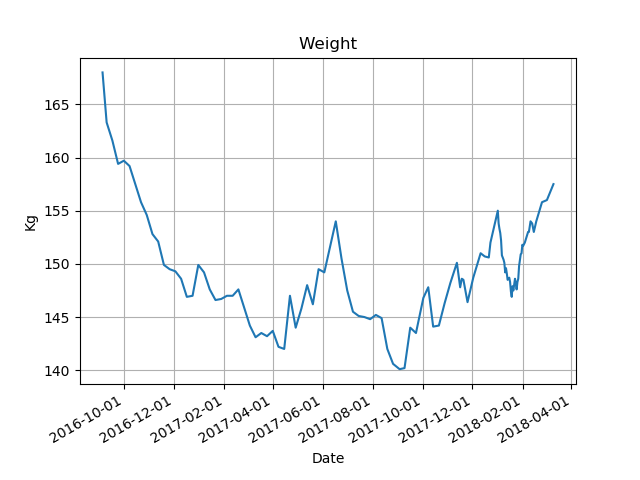
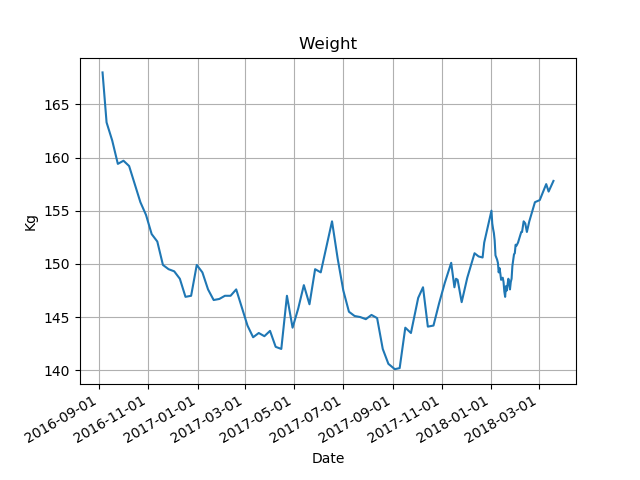
Week 11 update

diff --git a/index.html b/index.html
@@ -34,6 +34,22 @@
   </thead>
   <tbody>
     <tr>
+      <th>2018-03-19</th>
+      <td>157.8</td>
+      <td>1.0</td>
+      <td>-10.2</td>
+      <td>47.1</td>
+      <td>1.9</td>
+    </tr>
+    <tr>
+      <th>2018-03-13</th>
+      <td>156.8</td>
+      <td>-0.7</td>
+      <td>-11.2</td>
+      <td>46.8</td>
+      <td>1.9</td>
+    </tr>
+    <tr>
       <th>2018-03-10</th>
       <td>157.5</td>
       <td>1.5</td>
